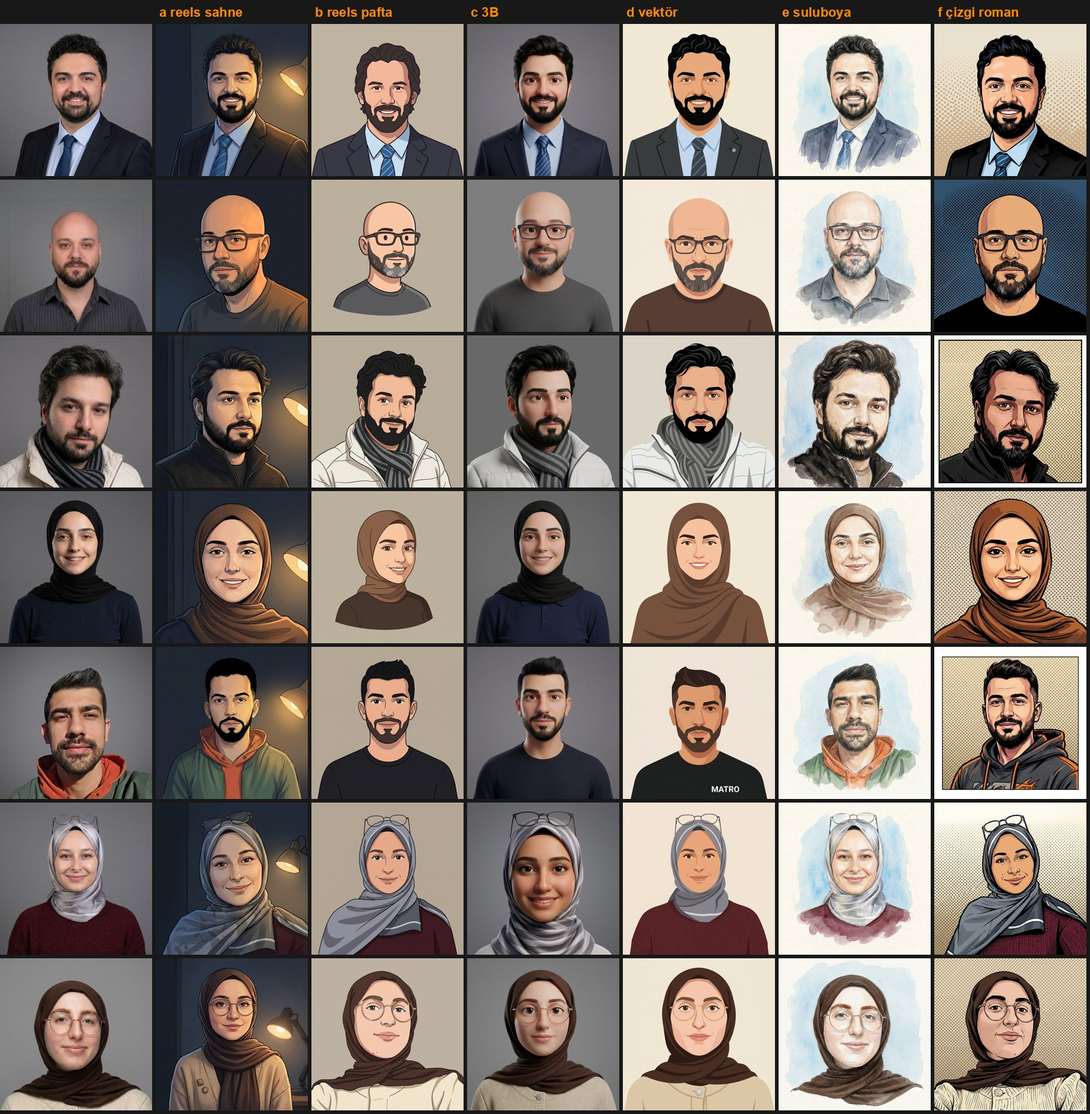
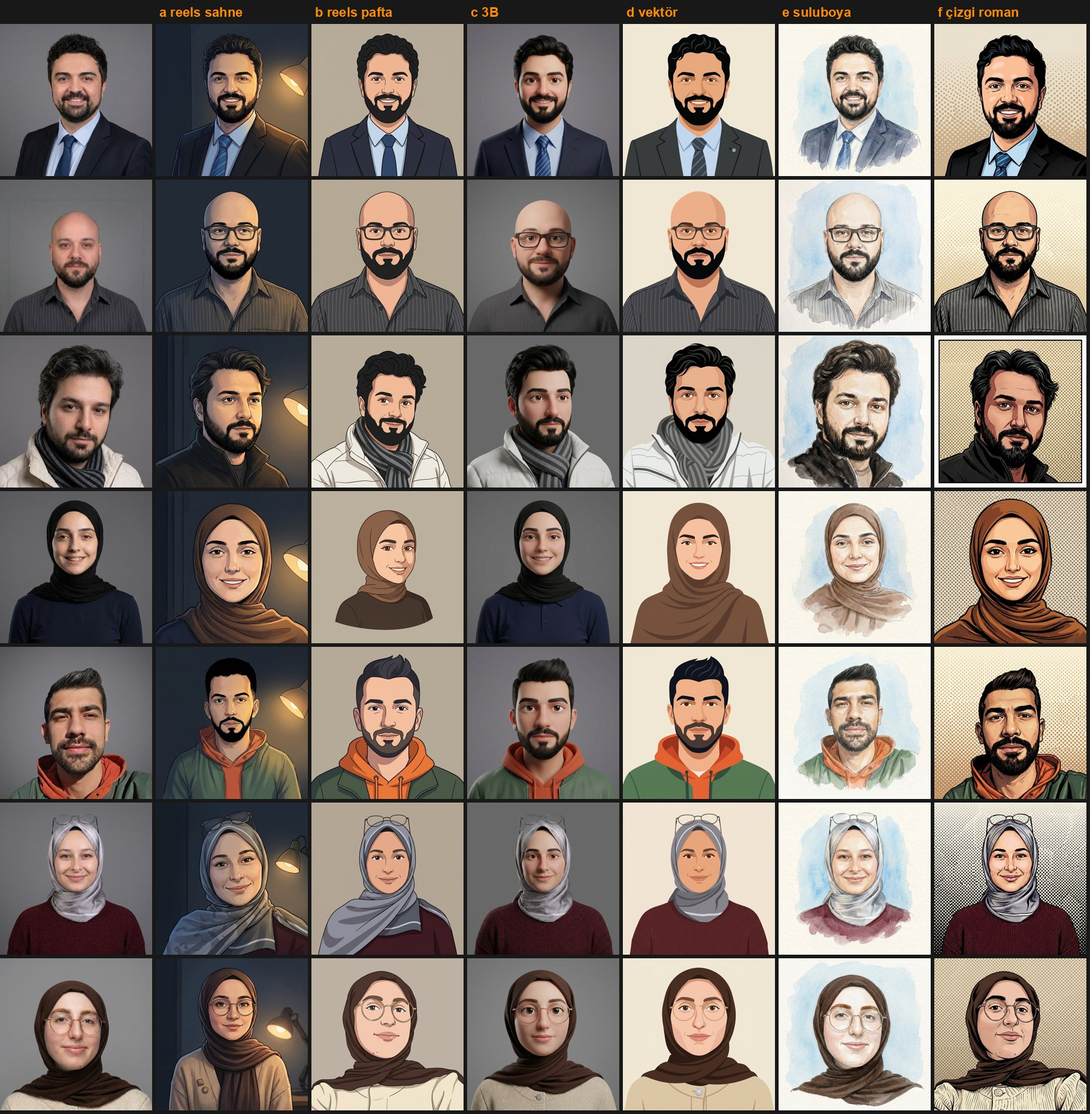
Ekip YZ: Bilgehan kendi referans sayfasıyla, benzemeyenler yeniden
Kır sakal tarifi düzeltildi; Ömer, Gülsiye ve Genç'in kayan stilleri
yeniden üretildi. Elenenler docs/ekip/yz/claude/elenen altında.

diff --git a/docs/ekip/yz/claude/referans_uret.py b/docs/ekip/yz/claude/referans_uret.py
@@ -14,7 +14,7 @@ OUT = E + 'yz/claude/'
 GENC = "a young university student; keep exactly the age seen in the photos, do NOT make them look older"
 KISI = {
  'mehmet-onur-genc': "Mehmet Onur, the academic advisor: dark wavy hair, full dark beard, warm smile, dark suit and tie. Keep exactly the age seen in the photos; do NOT make him look older",
- 'bilgehan-zeki-ozaytac': "Bilgehan (Zeki): bald head, short dark beard with some grey, dark rectangular glasses in most casual photos. Keep exactly the age seen in the photos; do NOT make him look older",
+ 'bilgehan-zeki-ozaytac': "Bilgehan (Zeki): bald head, short fully DARK beard (no grey hair at all), dark rectangular glasses in most casual photos. Keep exactly the age seen in the photos; do NOT make him look older",
  'muhammed-ataman': "Muhammed, a young man under 30: thick dark wavy hair swept back, full dark beard. Do NOT make him look older",
  'irmak-karaagac': "Irmak, " + GENC + ": she wears a hijab, friendly smile",
  'omer-cihan-demir': "Ömer, " + GENC + ": short dark hair with a quiff, trimmed dark beard",
@@ -29,7 +29,7 @@ GRUP = {
  'muhammed-ataman-grup': {'muhammed-ataman': 'the bearded man in black on the far LEFT'},
 }
 # kullanıcının kendi onaylı avatar çizimleri (kimlik + stil için)
-OZEL = {'bilgehan-zeki-ozaytac': [PK + 'zeki_avatar_1024.jpg', A + 'morph_07_yakin_plan_mimik.jpg']}
+OZEL = {'bilgehan-zeki-ozaytac': [E + 'orijinal/bilgehan-zeki-ozaytac-referans-sayfasi.png', PK + 'zeki_avatar_1024.jpg', A + 'morph_07_yakin_plan_mimik.jpg']}
 
 def img(p, m=1024):
     im = ImageOps.exif_transpose(Image.open(p)).convert('RGB'); im.thumbnail((m, m))
@@ -43,7 +43,7 @@ def fotolar(slug):
         grup = next((g for g in GRUP if ad.startswith(g)), None)
         if grup and slug in GRUP[grup]:
             L.append((p, 'group photo; this person is ' + GRUP[grup][slug] + '; ignore everyone else'))
-        elif not grup and ad.startswith(slug):
+        elif not grup and ad.startswith(slug) and 'referans-sayfasi' not in ad:
             L.append((p, 'photo of this person'))
     for p, n in [(E + f'alternatif/{slug}.jpg', 'another photo'), (E + f'yz/codex/gri-fon/{slug}.jpg', 'studio portrait of this person')]:
         if os.path.exists(p): L.append((p, n))
@@ -54,7 +54,7 @@ def ilk_tur(slug):
     for f, n in fotolar(slug):
         p += [{"text": n + ':'}, img(f)]
     for f in OZEL.get(slug, []):
-        p += [{"text": "approved illustrated avatar of this same person:"}, img(f)]
+        p += [{"text": ("THE MAIN APPROVED REFERENCE SHEET of this person (follow this face, age, beard colour and build most closely):" if "referans-sayfasi" in f else "approved illustrated avatar of this same person:")}, img(f, 1536)]
     return p
 
 def cagir(slug, p2, oran, cikti):
@@ -106,14 +106,16 @@ def sayfa(slug, h):
     return cagir(slug, p2, '3:2', OUT + f'referans-sayfasi/{h}-{slug}.jpg')
 
 def portre(slug, h):
-    ornek = stil_ornekleri(h)
-    p2 = [{"text": "Earlier approved drawings of other team members in this exact style (match the rendering; identity only from the real photos):"}] + [img(x, 768) for x in ornek]
+    # shortcut: en çok 2 stil örneği; fazlası kimliği karıştırıp başka kişiyi çizdirdi (Bilgehan yerine Irmak)
+    ornek = [x for x in stil_ornekleri(h) if slug not in x][:2]
+    p2 = [{"text": "STYLE ONLY: drawings of OTHER, DIFFERENT people. Copy only their rendering; never draw these people:"}] + [img(x, 512) for x in ornek]
     if h == 'a':
         p2 += [{"text": "Style references (copy ONLY the drawing style):"}, img(A + 'morph_07_yakin_plan_mimik.jpg')]
     if h == 'b':
         p2 += [{"text": "Style reference (copy ONLY the drawing style):"}, img(A + 'KARAKTER_KIMLIK_PAFTASI_v1.jpg')]
-    p2.append({"text": f"Now draw a head-and-shoulders portrait of THIS person in {STIL6[h]} Instantly recognisable: same face, beard/hair, hijab or glasses as in the photos. "
-               "Do NOT make them look older, no wrinkles, no extra weight, no beautifying, no big eyes. Centred, square 1:1. No text."})
+    p2.append({"text": f"Now draw a head-and-shoulders portrait of the person from the REAL PHOTOS in the first message ({KISI[slug].split(':')[0]}), not anyone from the style images. Keep every accessory from the photos (glasses, hijab, beard). Draw in {STIL6[h]}"})
+    p2.append({"text": f"Portrait of THIS person in {STIL6[h]} Instantly recognisable: same face, beard/hair, hijab or glasses as in the photos. "
+               "Do NOT make them look older, no wrinkles, no extra weight, no beautifying, no big eyes. Same outfit as in the studio portrait. Centred, square 1:1. No text."})
     return cagir(slug, p2, '1:1', OUT + f'stil-ornekleri/{h}-{slug}.jpg')
 
 if __name__ == '__main__':
